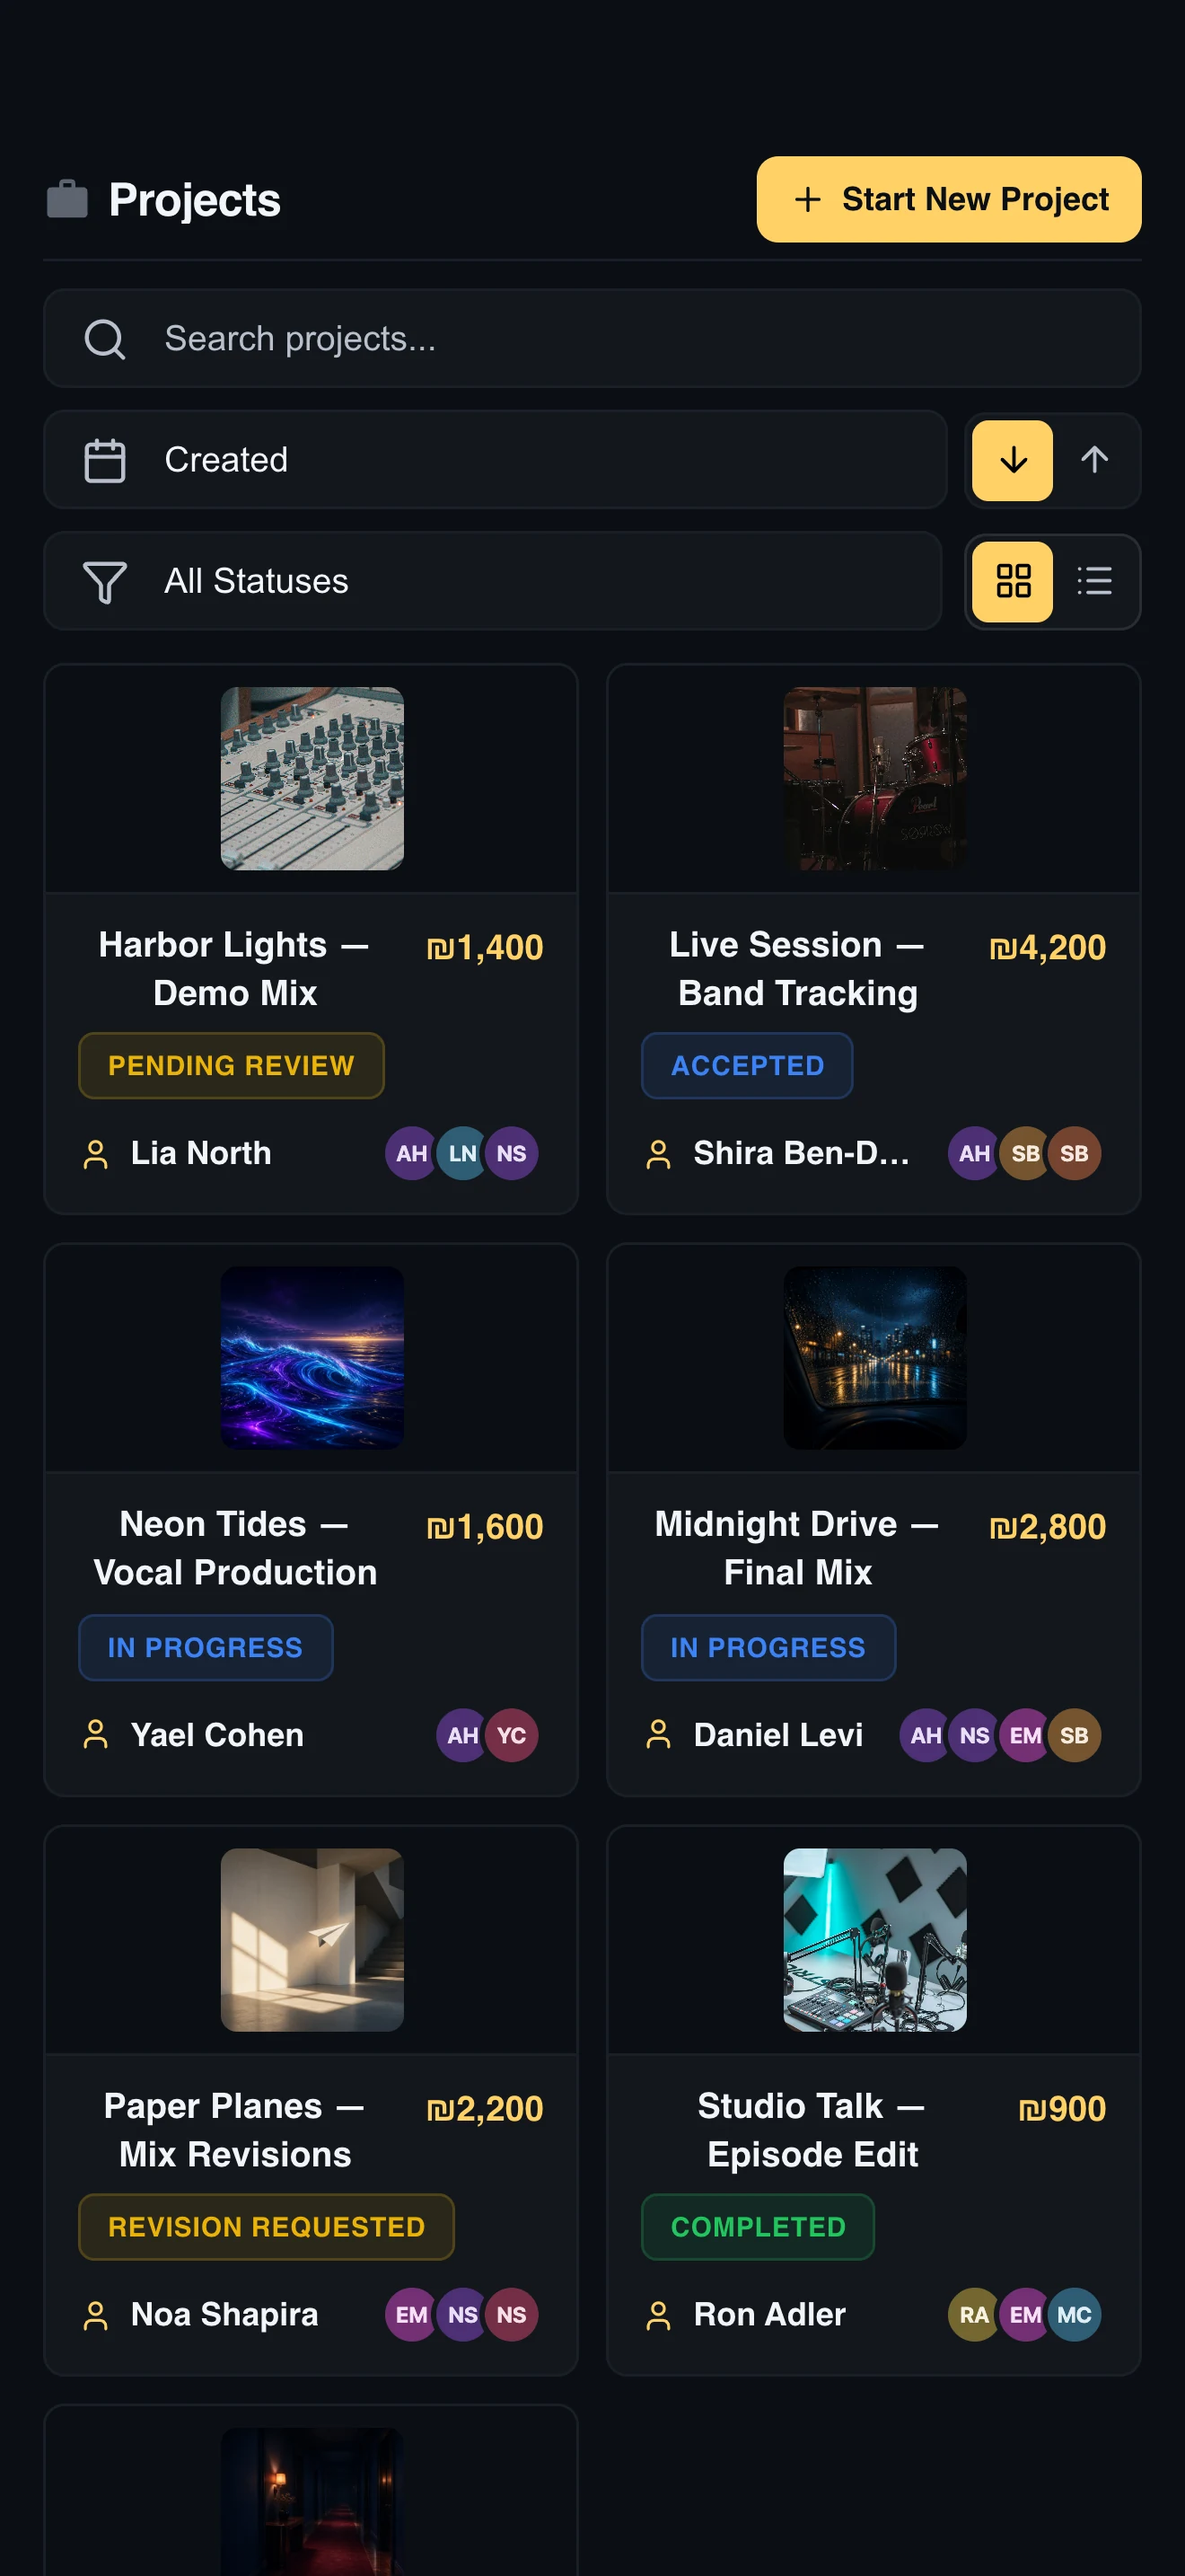
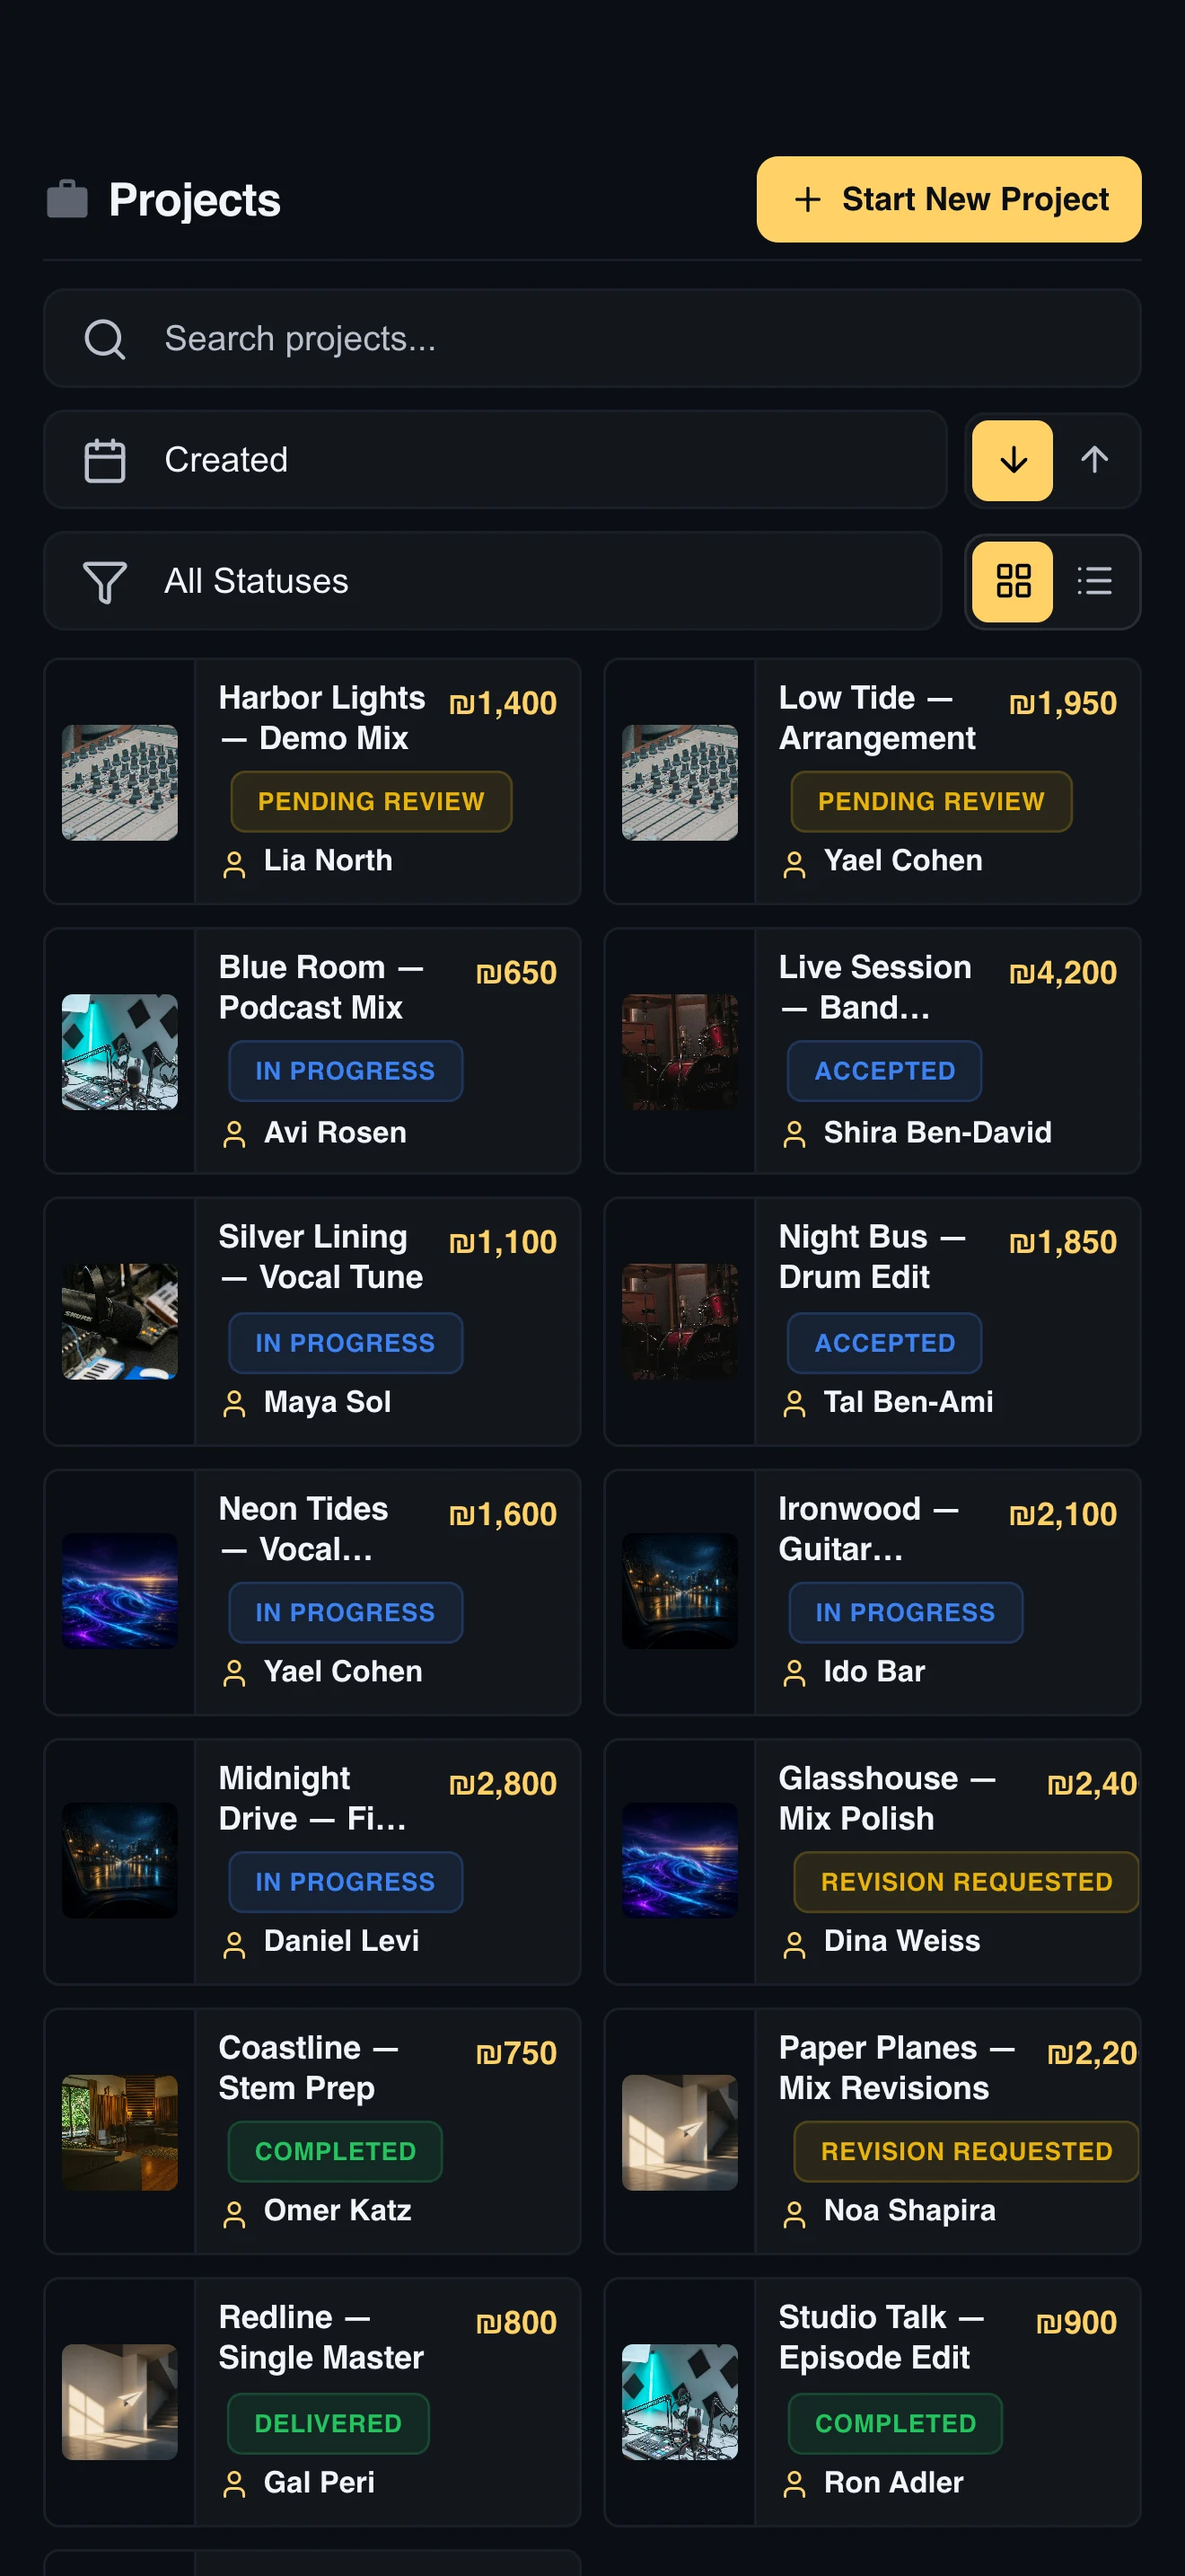
Start-align project card titles and refresh project marketing captures.
Override the global body text-align so list titles match meta rows, then republish desktop/mobile project WebPs.

diff --git a/src/features/entities/remote-projects/pages/styles/_projects-list-page.scss b/src/features/entities/remote-projects/pages/styles/_projects-list-page.scss
@@ -753,6 +753,7 @@
     line-height: 1.35;
     flex: 1;
     min-width: 0;
+    text-align: start; // override global body text-align: center
   }
 
   &__card-price {

diff --git a/src/features/entities/remote-projects/components/styles/_project-card.scss b/src/features/entities/remote-projects/components/styles/_project-card.scss
@@ -81,6 +81,7 @@
     overflow: hidden;
     text-overflow: ellipsis;
     max-width: 100%;
+    text-align: start;
   }
 
   &__price {
